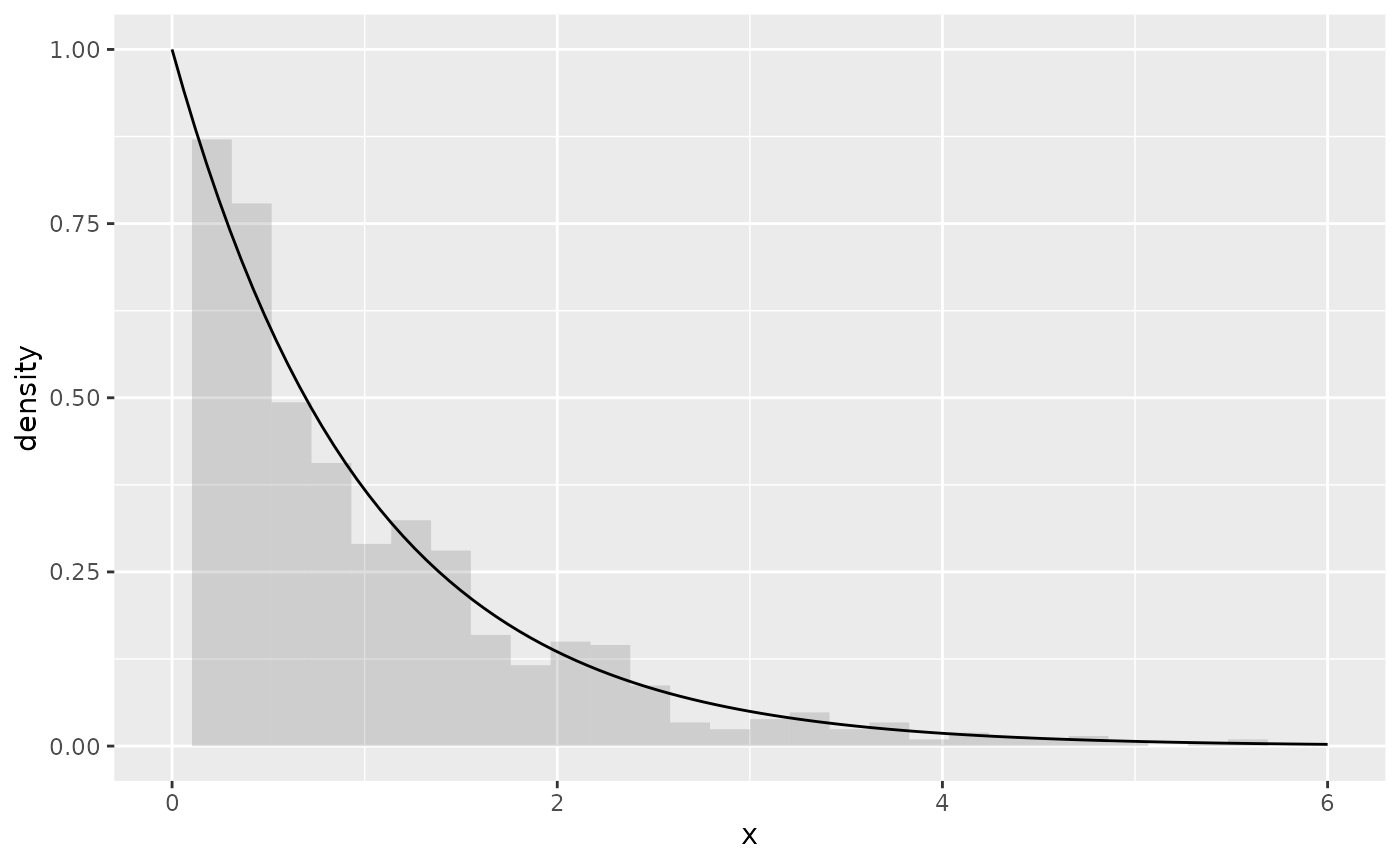
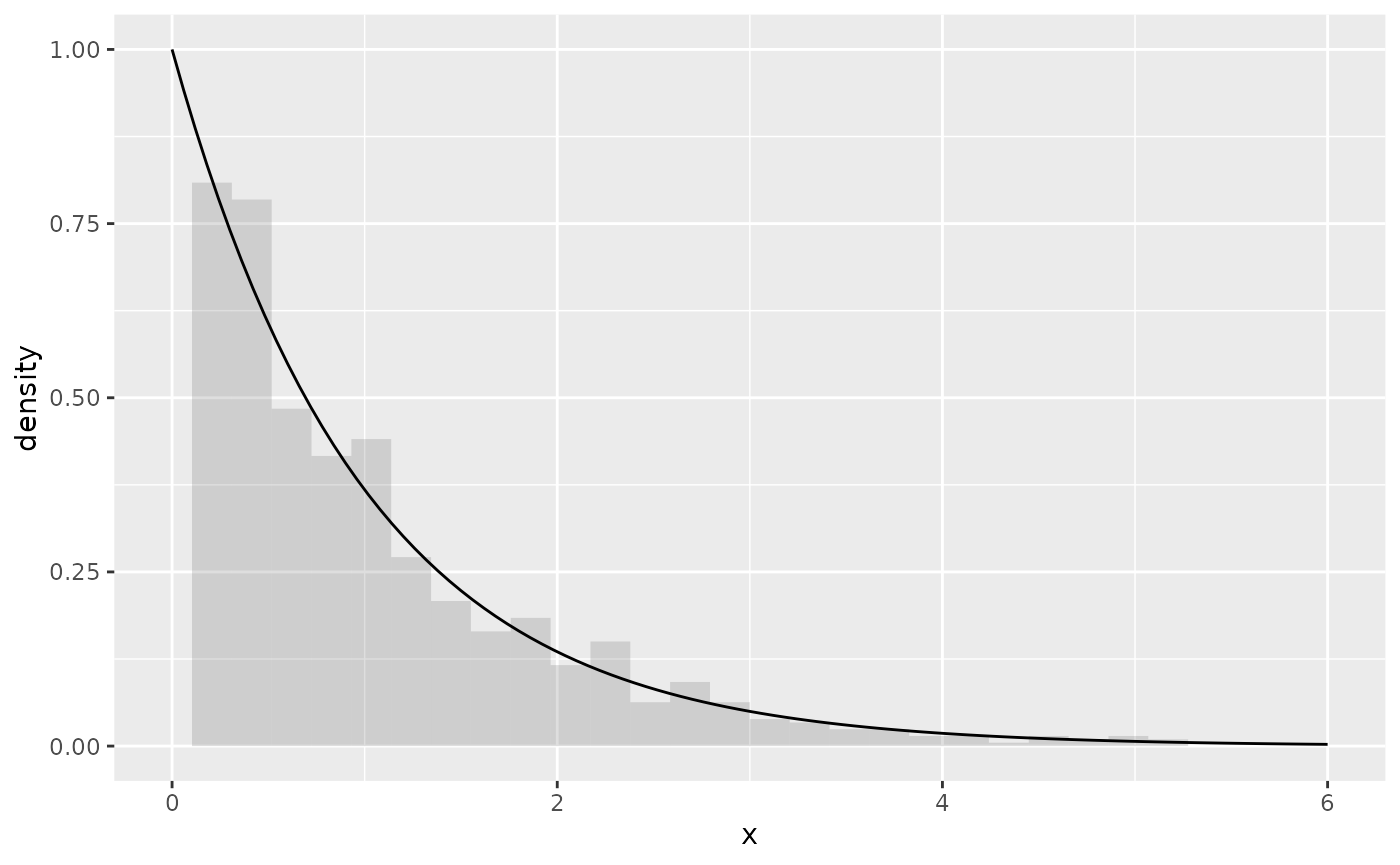
Built site for algebraic.mle: 0.1.0@2a1b63a

diff --git a/articles/exponential-mle.html b/articles/exponential-mle.html
@@ -103,12 +103,12 @@
 <div class="sourceCode" id="cb4"><pre class="downlit sourceCode r">
 <code class="sourceCode R"><span class="fu"><a href="https://rdrr.io/r/base/print.html" class="external-link">print</a></span><span class="op">(</span><span class="fu"><a href="https://rdrr.io/r/utils/head.html" class="external-link">head</a></span><span class="op">(</span><span class="va">x</span>,n<span class="op">=</span><span class="fl">4</span><span class="op">)</span><span class="op">)</span>
 <span class="co">#&gt; <span style="color: #949494;"># A tibble: 4 × 1</span></span>
-<span class="co">#&gt;       x</span>
-<span class="co">#&gt;   <span style="color: #949494; font-style: italic;">&lt;dbl&gt;</span></span>
-<span class="co">#&gt; <span style="color: #BCBCBC;">1</span> 0.587</span>
-<span class="co">#&gt; <span style="color: #BCBCBC;">2</span> 0.386</span>
-<span class="co">#&gt; <span style="color: #BCBCBC;">3</span> 0.948</span>
-<span class="co">#&gt; <span style="color: #BCBCBC;">4</span> 0.909</span></code></pre></div>
+<span class="co">#&gt;        x</span>
+<span class="co">#&gt;    <span style="color: #949494; font-style: italic;">&lt;dbl&gt;</span></span>
+<span class="co">#&gt; <span style="color: #BCBCBC;">1</span> 0.034<span style="text-decoration: underline;">8</span></span>
+<span class="co">#&gt; <span style="color: #BCBCBC;">2</span> 0.846 </span>
+<span class="co">#&gt; <span style="color: #BCBCBC;">3</span> 2.22  </span>
+<span class="co">#&gt; <span style="color: #BCBCBC;">4</span> 0.663</span></code></pre></div>
 <p>We show a histogram of the sample overlaid with a plot of the exponential function’s pdf, with:</p>
 <div class="sourceCode" id="cb5"><pre class="downlit sourceCode r">
 <code class="sourceCode R"><span class="kw"><a href="https://rdrr.io/r/base/library.html" class="external-link">library</a></span><span class="op">(</span><span class="va"><a href="https://ggplot2.tidyverse.org" class="external-link">ggplot2</a></span><span class="op">)</span>
@@ -126,35 +126,35 @@
 <span class="fu"><a href="https://rdrr.io/r/base/summary.html" class="external-link">summary</a></span><span class="op">(</span><span class="va">rate.hat</span><span class="op">)</span>
 <span class="co">#&gt; Maximum likelihood estimator, of type mle_exp ,</span>
 <span class="co">#&gt; is normally distributed with mean</span>
-<span class="co">#&gt; [1] 1.03515</span>
+<span class="co">#&gt; [1] 0.9958415</span>
 <span class="co">#&gt; and variance-covariance</span>
-<span class="co">#&gt;             [,1]</span>
-<span class="co">#&gt; [1,] 0.001071536</span>
+<span class="co">#&gt;              [,1]</span>
+<span class="co">#&gt; [1,] 0.0009917003</span>
 <span class="co">#&gt; ---</span>
-<span class="co">#&gt; The asymptotic mean squared error 0.001071536 </span>
+<span class="co">#&gt; The asymptotic mean squared error 0.0009917003 </span>
 <span class="co">#&gt; The asymptotic 95% confidence interval is</span>
-<span class="co">#&gt;      2.5 %   97.5 %</span>
-<span class="co">#&gt; 1 0.981307 1.088993</span>
-<span class="co">#&gt; The log-likelihood is -965.4535 </span>
-<span class="co">#&gt; The AIC is 1932.907</span></code></pre></div>
+<span class="co">#&gt;       2.5 %  97.5 %</span>
+<span class="co">#&gt; 1 0.9440429 1.04764</span>
+<span class="co">#&gt; The log-likelihood is -1004.167 </span>
+<span class="co">#&gt; The AIC is 2010.334</span></code></pre></div>
 <p>We can show the point estimator with:</p>
 <div class="sourceCode" id="cb7"><pre class="downlit sourceCode r">
 <code class="sourceCode R"><span class="fu"><a href="../reference/point.html">point</a></span><span class="op">(</span><span class="va">rate.hat</span><span class="op">)</span>
-<span class="co">#&gt; [1] 1.03515</span></code></pre></div>
+<span class="co">#&gt; [1] 0.9958415</span></code></pre></div>
 <p>We can show the Fisher information and variance-covariance matrices with:</p>
 <div class="sourceCode" id="cb8"><pre class="downlit sourceCode r">
 <code class="sourceCode R"><span class="fu"><a href="../reference/fisher_info.html">fisher_info</a></span><span class="op">(</span><span class="va">rate.hat</span><span class="op">)</span>
 <span class="co">#&gt;          [,1]</span>
-<span class="co">#&gt; [1,] 933.2399</span>
+<span class="co">#&gt; [1,] 1008.369</span>
 <span class="fu"><a href="https://rdrr.io/r/stats/vcov.html" class="external-link">vcov</a></span><span class="op">(</span><span class="va">rate.hat</span><span class="op">)</span>
-<span class="co">#&gt;             [,1]</span>
-<span class="co">#&gt; [1,] 0.001071536</span></code></pre></div>
+<span class="co">#&gt;              [,1]</span>
+<span class="co">#&gt; [1,] 0.0009917003</span></code></pre></div>
 <p>(If <code>rate.hat</code> had been a vector, <code>vcov</code> would have output a variance-covariance matrix. We may consider the above outputs <span class="math inline">\(1 \times 1\)</span> matrices.)</p>
 <p>We can show the confidence interval with:</p>
 <div class="sourceCode" id="cb9"><pre class="downlit sourceCode r">
 <code class="sourceCode R"><span class="fu"><a href="https://rdrr.io/r/stats/confint.html" class="external-link">confint</a></span><span class="op">(</span><span class="va">rate.hat</span><span class="op">)</span>
-<span class="co">#&gt;      2.5 %   97.5 %</span>
-<span class="co">#&gt; 1 0.981307 1.088993</span></code></pre></div>
+<span class="co">#&gt;       2.5 %  97.5 %</span>
+<span class="co">#&gt; 1 0.9440429 1.04764</span></code></pre></div>
 <div class="section level3">
 <h3 id="sampling-distribution-of-the-mle">Sampling distribution of the MLE<a class="anchor" aria-label="anchor" href="#sampling-distribution-of-the-mle"></a>
 </h3>
@@ -206,10 +206,10 @@
 <p>We expected a mean of <span class="math inline">\(2\)</span> and a variance of <span class="math inline">\(4/n = 0.004\)</span>, which is pretty close to what we obtained:</p>
 <div class="sourceCode" id="cb15"><pre class="downlit sourceCode r">
 <code class="sourceCode R"><span class="fu"><a href="../reference/point.html">point</a></span><span class="op">(</span><span class="va">f.hat</span><span class="op">)</span>
-<span class="co">#&gt; [1] 2.0703</span>
+<span class="co">#&gt; [1] 1.991683</span>
 <span class="fu"><a href="https://rdrr.io/r/stats/vcov.html" class="external-link">vcov</a></span><span class="op">(</span><span class="va">f.hat</span><span class="op">)</span>
-<span class="co">#&gt;             [,1]</span>
-<span class="co">#&gt; [1,] 0.004102715</span></code></pre></div>
+<span class="co">#&gt;            [,1]</span>
+<span class="co">#&gt; [1,] 0.00375585</span></code></pre></div>
 </div>
 </div>
 </div>
@@ -248,9 +248,9 @@
 <span class="fu"><a href="https://rdrr.io/r/base/colnames.html" class="external-link">colnames</a></span><span class="op">(</span><span class="va">df</span><span class="op">)</span> <span class="op">&lt;-</span> <span class="fu"><a href="https://rdrr.io/r/base/c.html" class="external-link">c</a></span><span class="op">(</span><span class="st">"point estimate"</span>,<span class="st">"variance"</span><span class="op">)</span>
 <span class="fu"><a href="https://tibble.tidyverse.org/reference/rownames.html" class="external-link">rownames</a></span><span class="op">(</span><span class="va">df</span><span class="op">)</span> <span class="op">&lt;-</span> <span class="fu"><a href="https://rdrr.io/r/base/c.html" class="external-link">c</a></span><span class="op">(</span><span class="st">"weighted MLE"</span>, <span class="st">"MLE"</span><span class="op">)</span>
 <span class="fu"><a href="https://rdrr.io/r/base/print.html" class="external-link">print</a></span><span class="op">(</span><span class="va">df</span><span class="op">)</span>
-<span class="co">#&gt;              point estimate    variance</span>
-<span class="co">#&gt; weighted MLE       1.024532 0.001056418</span>
-<span class="co">#&gt; MLE                1.031123 0.001063214</span></code></pre></div>
+<span class="co">#&gt;              point estimate     variance</span>
+<span class="co">#&gt; weighted MLE      0.9756201 0.0009521169</span>
+<span class="co">#&gt; MLE               0.9759095 0.0009523994</span></code></pre></div>
 <p>We see that <span class="math inline">\(\hat\theta\)</span> and <span class="math inline">\(\hat\theta_w\)</span> model approximately the same sampling distribution for <span class="math inline">\(\theta\)</span>.</p>
 </div>
 </div>

diff --git a/reference/mle_newton_raphson.html b/reference/mle_newton_raphson.html
@@ -63,7 +63,7 @@
   <span class="va">info</span>,
   <span class="va">score</span>,
   stop_cond <span class="op">=</span> <span class="kw">function</span><span class="op">(</span><span class="va">theta1</span>, <span class="va">theta0</span><span class="op">)</span> <span class="fu"><a href="https://rdrr.io/r/base/MathFun.html" class="external-link">abs</a></span><span class="op">(</span><span class="fu"><a href="https://rdrr.io/r/base/Extremes.html" class="external-link">max</a></span><span class="op">(</span><span class="va">theta1</span> <span class="op">-</span> <span class="va">theta0</span><span class="op">)</span><span class="op">)</span> <span class="op">&lt;</span> <span class="fl">1e-04</span>,
-  sup <span class="op">=</span> <span class="kw">function</span><span class="op">(</span><span class="va">theta</span><span class="op">)</span> <span class="fu"><a href="https://rdrr.io/r/base/all.html" class="external-link">all</a></span><span class="op">(</span><span class="va">theta</span><span class="op">)</span> <span class="op">&gt;</span> <span class="fl">0</span>,
+  sup <span class="op">=</span> <span class="kw">function</span><span class="op">(</span><span class="va">theta</span><span class="op">)</span> <span class="fu"><a href="https://rdrr.io/r/base/all.html" class="external-link">all</a></span><span class="op">(</span><span class="va">theta</span> <span class="op">&gt;</span> <span class="fl">0</span><span class="op">)</span>,
   r <span class="op">=</span> <span class="fl">0.75</span>,
   max_iter <span class="op">=</span> <span class="fl">0L</span>
 <span class="op">)</span></code></pre></div>
@@ -71,7 +71,9 @@
 
     <div class="section level2">
     <h2 id="arguments">Arguments<a class="anchor" aria-label="anchor" href="#arguments"></a></h2>
-    <dl><dt>theta0</dt>
+    <dl><dt>l</dt>
+<dd><p>log-likelihood function of type \(R^p \mapsto R\)</p></dd>
+<dt>theta0</dt>
 <dd><p>initial guess of theta with \(p\) components</p></dd>
 <dt>info</dt>
 <dd><p>information matrix function of type \(R^p -&gt; R^{p \times q}\)</p></dd>

diff --git a/reference/mle_gradient_ascent.html b/reference/mle_gradient_ascent.html
@@ -62,7 +62,7 @@
   <span class="va">theta0</span>,
   score <span class="op">=</span> <span class="kw">function</span><span class="op">(</span><span class="va">theta</span><span class="op">)</span> <span class="fu">numDeriv</span><span class="fu">::</span><span class="fu"><a href="https://rdrr.io/pkg/numDeriv/man/grad.html" class="external-link">grad</a></span><span class="op">(</span><span class="va">l</span>, <span class="va">theta</span><span class="op">)</span>,
   stop_cond <span class="op">=</span> <span class="kw">function</span><span class="op">(</span><span class="va">theta1</span>, <span class="va">theta0</span><span class="op">)</span> <span class="fu"><a href="https://rdrr.io/r/base/MathFun.html" class="external-link">abs</a></span><span class="op">(</span><span class="fu"><a href="https://rdrr.io/r/base/Extremes.html" class="external-link">max</a></span><span class="op">(</span><span class="va">theta1</span> <span class="op">-</span> <span class="va">theta0</span><span class="op">)</span><span class="op">)</span> <span class="op">&lt;</span> <span class="fl">1e-04</span>,
-  sup <span class="op">=</span> <span class="kw">function</span><span class="op">(</span><span class="va">theta</span><span class="op">)</span> <span class="fu"><a href="https://rdrr.io/r/base/all.html" class="external-link">all</a></span><span class="op">(</span><span class="va">theta</span><span class="op">)</span> <span class="op">&gt;</span> <span class="fl">0</span>,
+  sup <span class="op">=</span> <span class="kw">function</span><span class="op">(</span><span class="va">theta</span><span class="op">)</span> <span class="fu"><a href="https://rdrr.io/r/base/all.html" class="external-link">all</a></span><span class="op">(</span><span class="va">theta</span> <span class="op">&gt;</span> <span class="fl">0</span><span class="op">)</span>,
   r <span class="op">=</span> <span class="fl">0.5</span>,
   max_iter <span class="op">=</span> <span class="fl">0L</span>
 <span class="op">)</span></code></pre></div>

diff --git a/reference/mle_iterative.html b/reference/mle_iterative.html
@@ -62,7 +62,7 @@
   <span class="va">theta0</span>,
   dir <span class="op">=</span> <span class="kw">function</span><span class="op">(</span><span class="va">theta</span><span class="op">)</span> <span class="fu">numDeriv</span><span class="fu">::</span><span class="fu"><a href="https://rdrr.io/pkg/numDeriv/man/grad.html" class="external-link">grad</a></span><span class="op">(</span><span class="va">l</span>, <span class="va">theta</span><span class="op">)</span>,
   stop_cond <span class="op">=</span> <span class="kw">function</span><span class="op">(</span><span class="va">theta1</span>, <span class="va">theta0</span><span class="op">)</span> <span class="fu"><a href="https://rdrr.io/r/base/MathFun.html" class="external-link">abs</a></span><span class="op">(</span><span class="fu"><a href="https://rdrr.io/r/base/Extremes.html" class="external-link">max</a></span><span class="op">(</span><span class="va">theta1</span> <span class="op">-</span> <span class="va">theta0</span><span class="op">)</span><span class="op">)</span> <span class="op">&lt;</span> <span class="fl">1e-04</span>,
-  sup <span class="op">=</span> <span class="kw">function</span><span class="op">(</span><span class="va">theta</span><span class="op">)</span> <span class="fu"><a href="https://rdrr.io/r/base/all.html" class="external-link">all</a></span><span class="op">(</span><span class="va">theta</span><span class="op">)</span> <span class="op">&gt;</span> <span class="fl">0</span>,
+  sup <span class="op">=</span> <span class="kw">function</span><span class="op">(</span><span class="va">theta</span><span class="op">)</span> <span class="fu"><a href="https://rdrr.io/r/base/all.html" class="external-link">all</a></span><span class="op">(</span><span class="va">theta</span> <span class="op">&gt;</span> <span class="fl">0</span><span class="op">)</span>,
   r <span class="op">=</span> <span class="fl">0.5</span>,
   max_iter <span class="op">=</span> <span class="fl">0L</span>
 <span class="op">)</span></code></pre></div>
